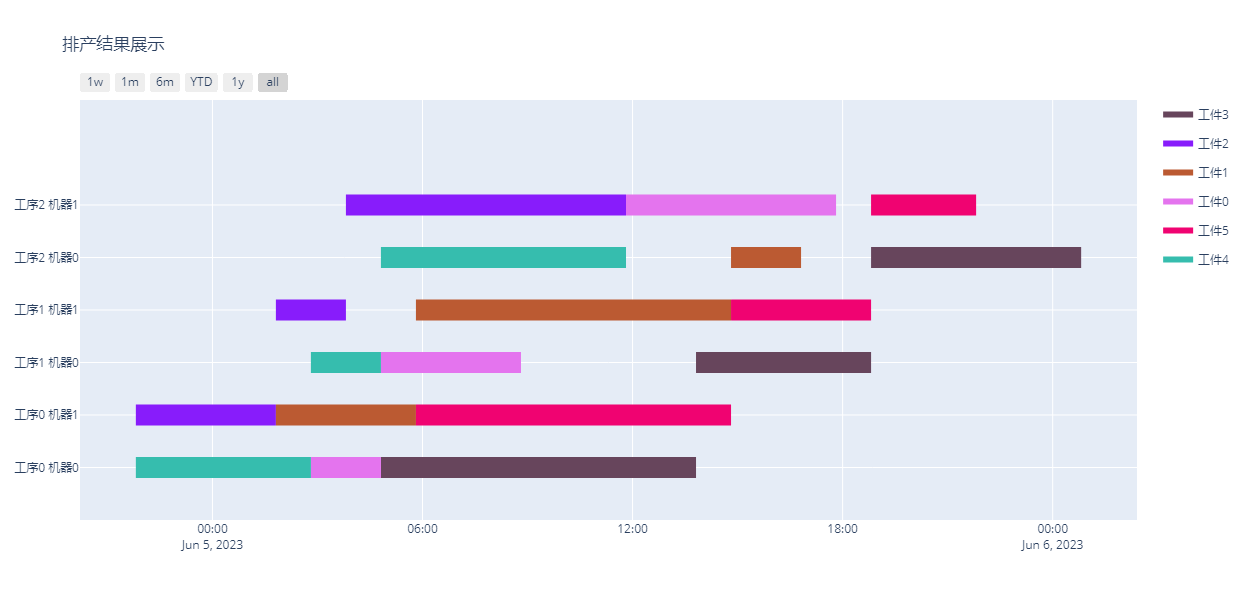
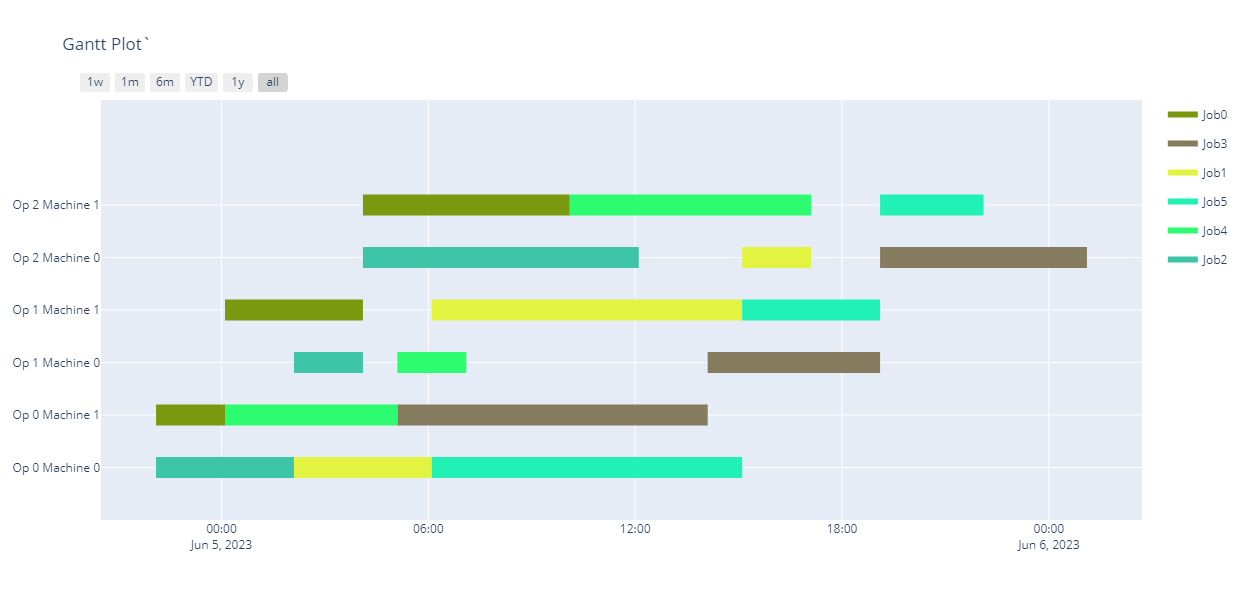
change gantt plot

diff --git a/gantt.py b/gantt.py
@@ -48,7 +48,7 @@ def create_draw_defination():
 def draw_prepare():
     df = create_draw_defination()
     return ff.create_gantt(df, colors=colors, index_col='Resource',
-                           title='排产结果展示', show_colorbar=True,
+                           title='Gantt Plot`', show_colorbar=True,
                            group_tasks=True, data=n_duration_time,
                            showgrid_x=True, showgrid_y=True)
 
@@ -120,7 +120,7 @@ if __name__ == '__main__':
             n_duration_time.append(duration)
             n_bay_start.append(machineMap[machine])
             n_bay_text.append(machine)
-            n_job_id.append('工件'+job)
+            n_job_id.append('Job'+job)
             color = jobMap[job]
             colors.append(color)
     draw_gantt()

diff --git a/src/data_process.py b/src/data_process.py
@@ -180,7 +180,7 @@ class GA:
 
         for op_id, machines in self.machine_dict.items():
             for m_id, machine in machines.items():
-                machine_id = '工序{0} 机器{1}'.format(op_id, m_id)
+                machine_id = 'Op {0} Machine {1}'.format(op_id, m_id)
                 record = {k: '' for k in range(makespan)}
                 record.update(machine.schedule)
                 record_dict[machine_id] = record
